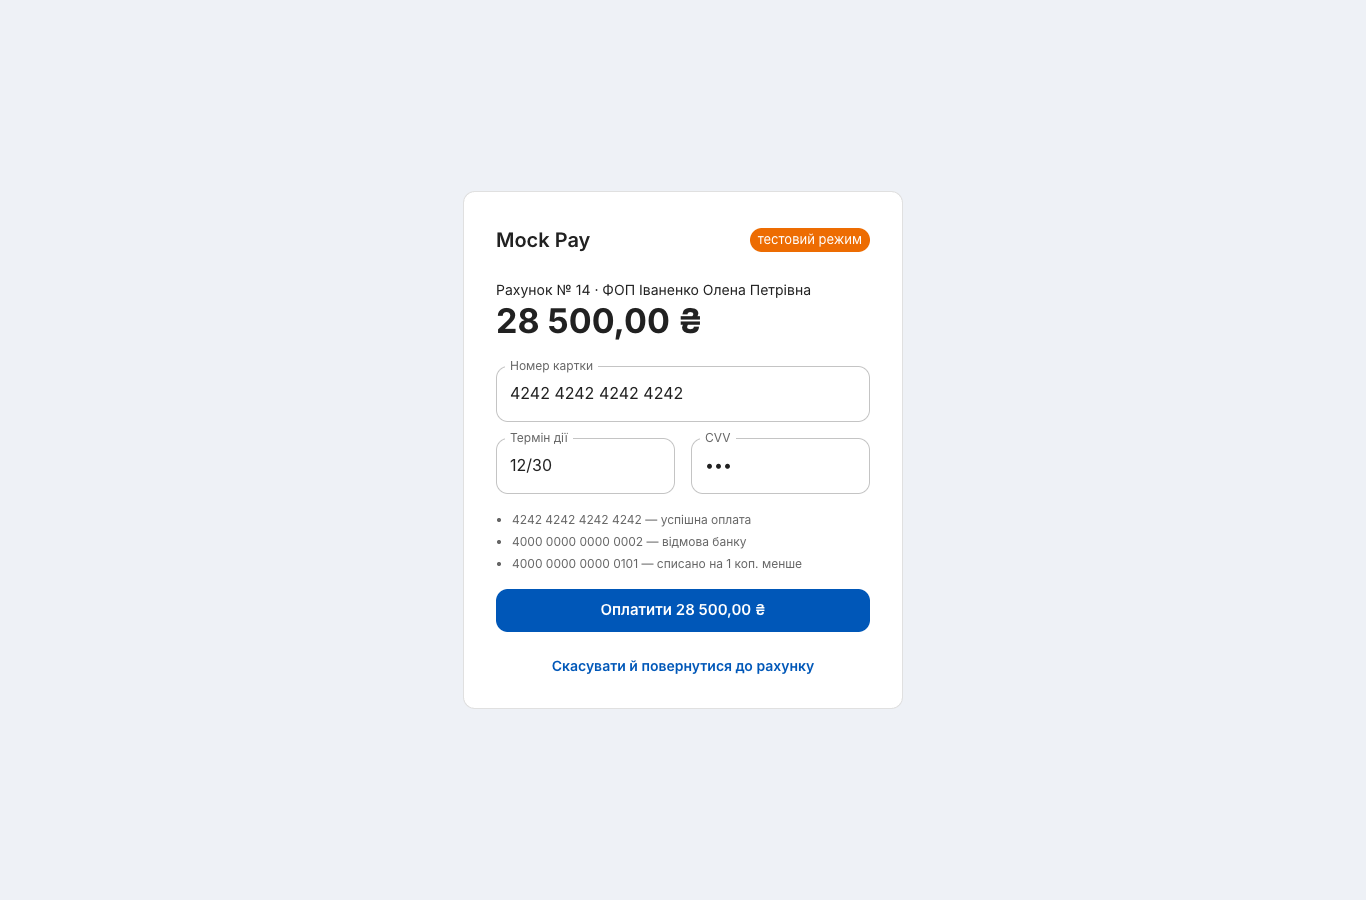
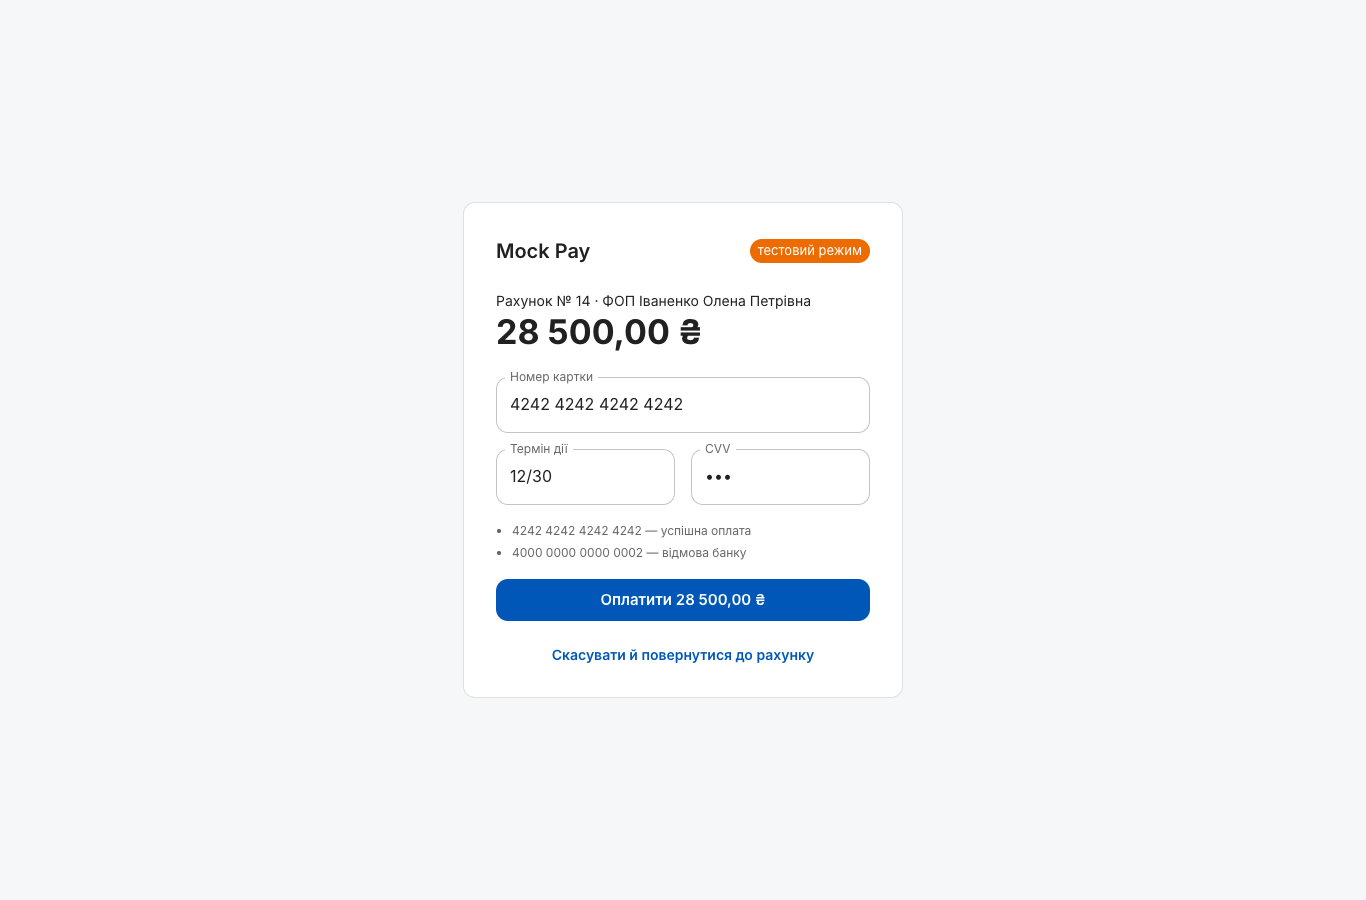
chore(payments): mock gateway offers only success and decline
The test card that charged one kopeck less is removed from the mock
gateway, the checkout hints, the README and the checkout screenshot, so
the demo shows two outcomes: paid or declined. The server-side amount
check stays as a safeguard for real providers.

Changed region(s): [[0.369, 0.2489, 0.6457, 0.7467]]

diff --git a/src/features/payments/mock-gateway.ts b/src/features/payments/mock-gateway.ts
@@ -7,8 +7,6 @@
 export const MOCK_CARDS = {
   success: '4242424242424242',
   declined: '4000000000000002',
-  /** Списано на 1 копійку менше — щоб показати обробку розбіжності суми. */
-  amountMismatch: '4000000000000101',
 } as const;
 
 export type MockCardResult =
@@ -19,8 +17,6 @@ export function chargeMockCard(cardNumber: string, amount: number): MockCardResu
   switch (digits) {
     case MOCK_CARDS.success:
       return { status: 'success', chargedAmount: amount };
-    case MOCK_CARDS.amountMismatch:
-      return { status: 'success', chargedAmount: amount - 1 };
     case MOCK_CARDS.declined:
       return { status: 'failure', chargedAmount: 0, failureReason: 'Картку відхилено банком' };
     default:

diff --git a/src/features/payments/components/MockCheckoutForm.tsx b/src/features/payments/components/MockCheckoutForm.tsx
@@ -42,7 +42,6 @@ export function MockCheckoutForm({ paymentId, amount, backUrl }: MockCheckoutFor
       <Stack component="ul" spacing={0.25} sx={{ m: 0, pl: 2, color: 'text.secondary', typography: 'caption' }}>
         <li>{formatCard(MOCK_CARDS.success)} — успішна оплата</li>
         <li>{formatCard(MOCK_CARDS.declined)} — відмова банку</li>
-        <li>{formatCard(MOCK_CARDS.amountMismatch)} — списано на 1 коп. менше</li>
       </Stack>
       <Button type="submit" variant="contained" size="large" loading={pending}>
         Оплатити {formatMoney(amount)}

diff --git a/README.md b/README.md
@@ -49,8 +49,7 @@ pnpm dev         # http://localhost:3000
    Для телефону в тій самій Wi-Fi-мережі задайте в `.env` `APP_URL` і `BETTER_AUTH_URL` = `http://<IP-ноутбука>:3000`
    і перезапустіть `pnpm dev` — посилання та сторінка оплати формуються з `APP_URL`.
 4. Оплата:
-   - **карткою** (тестовий шлюз): `4242 4242 4242 4242` — успіх, `4000 0000 0000 0002` — відмова,
-     `4000 0000 0000 0101` — списано на 1 коп. менше (розбіжність суми);
+   - **карткою** (тестовий шлюз): `4242 4242 4242 4242` — успіх, `4000 0000 0000 0002` — відмова;
    - **переказом**: QR-код НБУ скануються застосунком банку; фрилансер позначає оплату вручну.
 5. Статус «Оплачено» ставить лише підписаний вебхук — у кабінеті видно оплату, історію й лист «Вам оплатили».
 6. Нагадування: `REMINDER_DEMO_MODE=true pnpm dev` — нагадування прийдуть через 1 і 2 хвилини після виставлення
@@ -137,8 +136,8 @@ sequenceDiagram
   (дві вкладки) не залишать оплачений рахунок із платежем FAILED чи хибною вимогою повернення.
 - **Старт оплати з кількох вкладок** не створює дублікатів: поки перший запит створює checkout у провайдера,
   інші отримують «оплата вже розпочата»; checkout, створений під час скасування рахунку, закривається.
-- **Крайові випадки оплати** мають явну поведінку: розбіжність суми, повторна оплата вже оплаченого рахунку,
-  оплата скасованого рахунку → платіж фіксується, фрилансер бачить попередження (повернути кошти).
+- **Крайові випадки оплати** мають явну поведінку: повторна оплата вже оплаченого рахунку чи оплата скасованого
+  рахунку → платіж фіксується, фрилансер бачить попередження (повернути кошти).
 - **Нумерація** присвоюється при виставленні атомарним інкрементом — без дублів і пропусків навіть при паралельних запитах.
 - **Знімок реквізитів:** виставлений рахунок — документ; зміна профілю чи клієнта його не змінює.
 - **Публічне посилання** — непередбачуваний токен, `noindex`; «переглянуто» фіксується з браузера, тож прев’ю
@@ -166,7 +165,7 @@ pnpm test:integration  # 31 інтеграційний на окремій БД 
 
 Інтеграційні тести покривають ідемпотентність вебхуків (зокрема 5 паралельних доставок однієї події),
 паралельні різні події одного платежу, паралельний старт оплати й скасування під час створення checkout,
-розбіжність суми, подвійну оплату, нумерацію при паралельному виставленні, знімок реквізитів, доступ до чужих даних,
+подвійну оплату, нумерацію при паралельному виставленні, знімок реквізитів, доступ до чужих даних,
 ліміт тіла вебхука без `Content-Length` і шлях monobank (перевірка ECDSA-підпису, звірка статусу) з підміненим API.
 CI (GitHub Actions) запускає все це плюс production-збірку.
 
